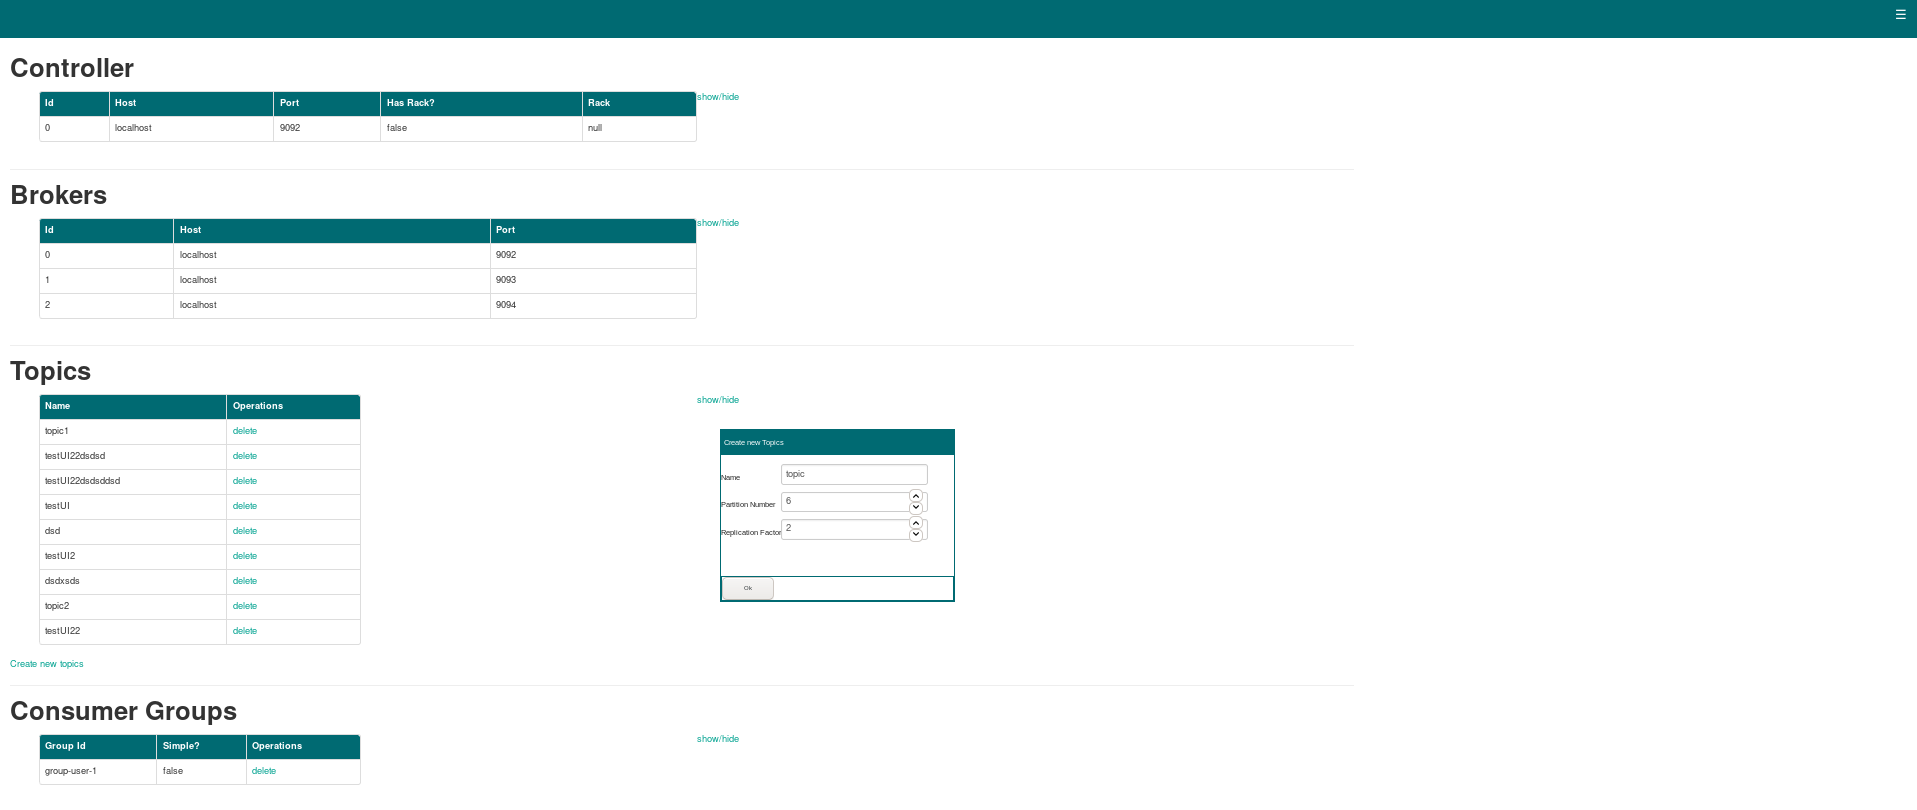
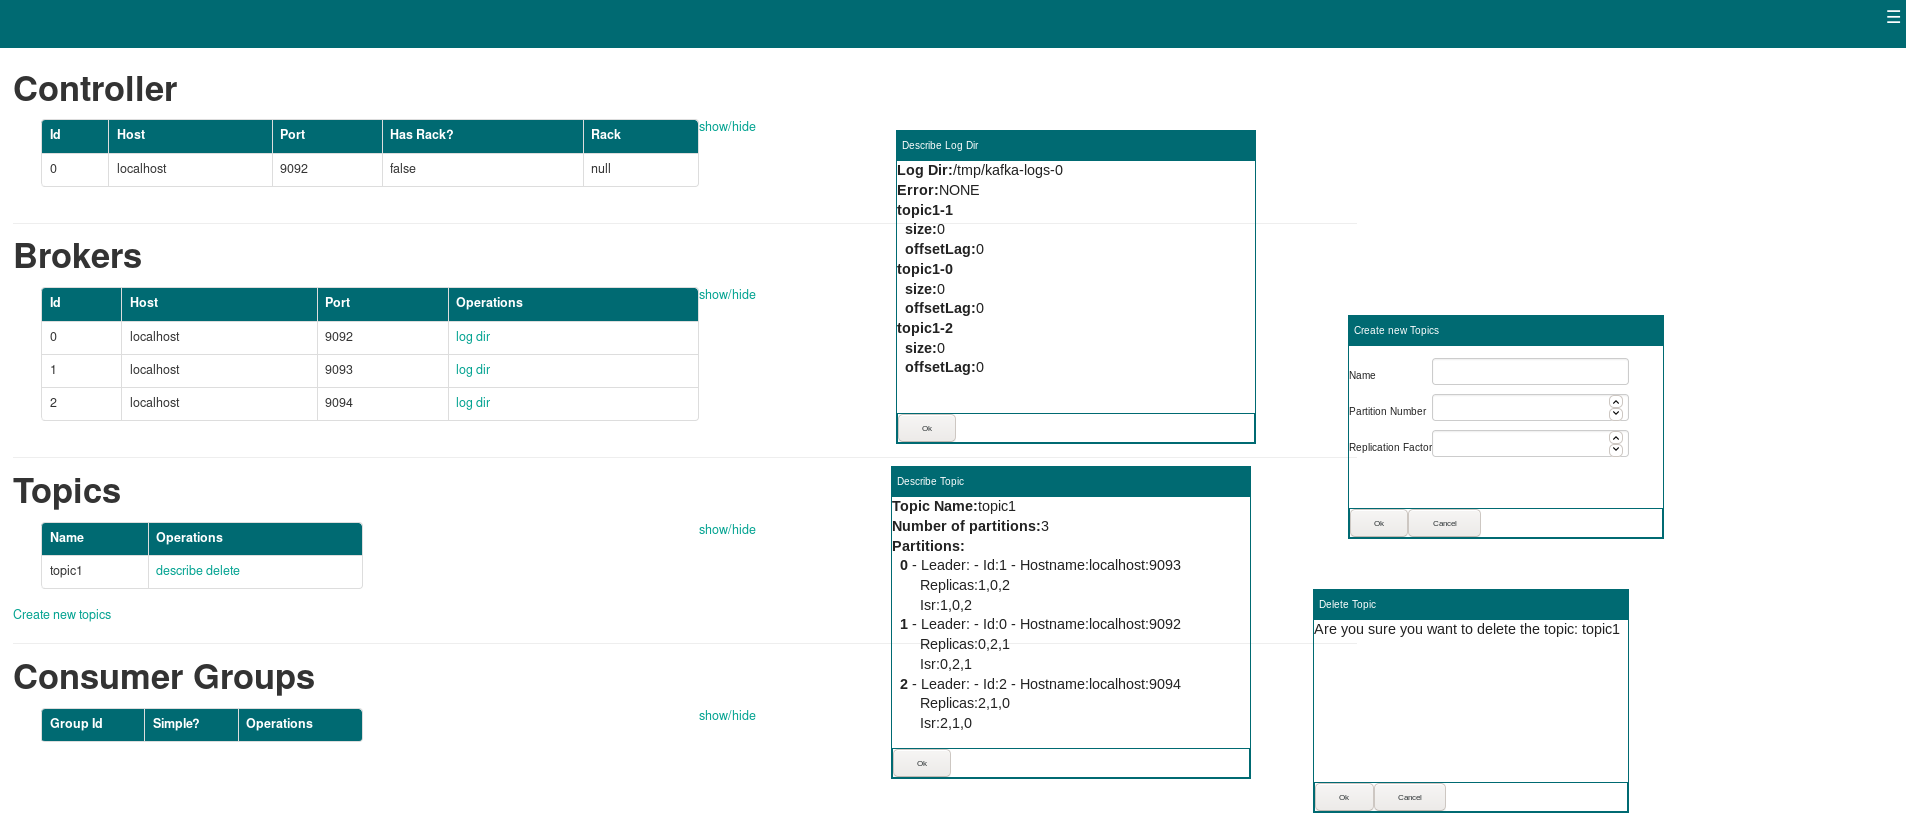
added describe log dir UI

diff --git a/kafka-console-ui/index.html b/kafka-console-ui/index.html
@@ -46,6 +46,10 @@
     <p id="describe-topic-def"><span id="describe-topic-name"></span></p>
 </div>
 
+<div id="dialog-describe-logdir" title="Describe Log Dir">
+    <p id="describe-logdir-def"><span id="describe-broker-id"></span></p>
+</div>
+
 <div id="dialog-delete-topic" title="Delete Topic">
   <p id="delete-topic-def">Are you sure you want to delete the topic: <span id="delete-topic-name"></span></p>
 </div>
@@ -118,6 +122,7 @@
     <th>Id</th>
     <th>Host</th>
     <th>Port</th>
+    <th>Operations</th>
   </thead>
   <tbody>
   </tbody>
@@ -203,23 +208,48 @@ var handleCgroupDeleted = function(data, textStatus, jqXHR) {
 var handleDescribeTopics = function(data, textStatus, jqXHR) {
   var topicName = $('#describe-topic-name').html();
   $('#describe-topic-name').html("");
-  $('#describe-topic-name').html("Topic Name:" + data[topicName].name + "<br>Number of partitions:" + data[topicName].partitions.length);
-  $('#describe-topic-name').append("<br>Partitions:<br>");
+  $('#describe-topic-name').html("<b>Topic Name:</b>" + data[topicName].name + "<br><b>Number of partitions:</b>" + data[topicName].partitions.length);
+  $('#describe-topic-name').append("<br><b>Partitions:</b><br>");
   var lastText = $('#describe-topic-name').html();
   for (var i = 0; i < data[topicName].partitions.length; i++) {
-    $('#describe-topic-name').append("&nbsp;&nbsp;" + i + " - Leader: - Id:" + data[topicName].partitions[i].leader.id + " - Hostname:" + data[topicName].partitions[i].leader.host + ":" + data[topicName].partitions[i].leader.port);
+    $('#describe-topic-name').append("&nbsp;&nbsp;<b>" + i + " </b>- Leader: - Id:" + data[topicName].partitions[i].leader.id + " - Hostname:" + data[topicName].partitions[i].leader.host + ":" + data[topicName].partitions[i].leader.port);
     $('#describe-topic-name').append("<br>");
     $('#describe-topic-name').append("&nbsp;&nbsp;&nbsp;&nbsp;&nbsp;&nbsp;&nbsp;Replicas:");
-    for (var j = 0; j < data[topicName].partitions[i].isr.length; j++) {
-      $('#describe-topic-name').append(data[topicName].partitions[i].replicas[j].id + ",");
+    for (var j = 0; j < data[topicName].partitions[i].replicas.length; j++) {
+      $('#describe-topic-name').append(data[topicName].partitions[i].replicas[j].id);
+      if(j < (data[topicName].partitions[i].replicas.length-1) ) {
+        $('#describe-topic-name').append(",");
+      }
     }
     $('#describe-topic-name').append("<br>");
     $('#describe-topic-name').append("&nbsp;&nbsp;&nbsp;&nbsp;&nbsp;&nbsp;&nbsp;Isr:");
-    for (var j = 0; j < data[topicName].partitions[i].replicas.length; j++) {
-      $('#describe-topic-name').append(data[topicName].partitions[i].isr[j].id + ",");
+    for (var j = 0; j < data[topicName].partitions[i].isr.length; j++) {
+      $('#describe-topic-name').append(data[topicName].partitions[i].isr[j].id);
+      if(j < (data[topicName].partitions[i].isr.length-1) ) {
+        $('#describe-topic-name').append(",");
+      }
     }
     $('#describe-topic-name').append("<br>");
   }
+}
+
+var handleDescribeLogDir = function(data, textStatus, jqXHR) {
+  var brokerId = $('#describe-broker-id').html();
+    var logArray = data[brokerId];
+    for(o in logArray) {
+      $('#describe-broker-id').html("<b>Log Dir:</b>" + o);
+      $('#describe-broker-id').append("<br>");
+      $('#describe-broker-id').append("<b>Error:</b>" + logArray[o].error);
+      var replicaInfos = logArray[o].replicaInfos;
+      for(t in replicaInfos) {
+        $('#describe-broker-id').append("<br>");
+        $('#describe-broker-id').append("<b>" + t + "<b>");
+        $('#describe-broker-id').append("<br>");
+        $('#describe-broker-id').append("&nbsp;&nbsp;<b>size:</b>" + replicaInfos[t].size);
+        $('#describe-broker-id').append("<br>");
+        $('#describe-broker-id').append("&nbsp;&nbsp;<b>offsetLag:</b>" + replicaInfos[t].offsetLag);
+      }
+    }
 }
 
 var handle404 = function(jqXHR, textStatus, errorThrown) {
@@ -364,8 +394,8 @@ $('#dialog-describe-topic').dialog({
       open: function(event, ui) {
         $(".ui-dialog-titlebar-close", ui.dialog || ui).hide();
       },
-      width: 350,
-      height: 250,
+      width: 400,
+      height: 350,
       open: function() {
             jQuery('.ui-widget-overlay').on('click', function() {
                 jQuery('#dialog-describe-topic').dialog('close');
@@ -385,6 +415,36 @@ $('#dialog-describe-topic').dialog({
         duration: 1000
       }
 });
+
+$('#dialog-describe-logdir').dialog({
+      modal: true,
+      autoOpen: false,
+      closeOnEscape: false,
+      open: function(event, ui) {
+        $(".ui-dialog-titlebar-close", ui.dialog || ui).hide();
+      },
+      width: 400,
+      height: 350,
+      open: function() {
+            jQuery('.ui-widget-overlay').on('click', function() {
+                jQuery('#dialog-describe-logdir').dialog('close');
+            })
+      },
+      buttons: {
+        Ok: function() {
+          $( this ).dialog( "close" );
+        }
+      },
+      show: {
+        effect: "bounce",
+        duration: 1000
+      },
+      hide: {
+        effect: "fade",
+        duration: 1000
+      }
+});
+
 
 $('#dialog-delete-cgroup').dialog({
       modal: true,
@@ -477,6 +537,24 @@ function describeTopic(topicName) {
   return false;
 }
 
+function describeLogDir(brokerId) {
+  $('#dialog-describe-logdir').dialog("open");
+  $('#describe-broker-id').html(brokerId);
+  $.ajax({
+    type: "POST",
+    url: 'http://localhost:8080/api/logs/describe',
+    data: '{"brokers": "' + brokerId + '"}',
+    dataType: "json",
+    statusCode: {
+      200: handleDescribeLogDir,
+      404: handle404,
+      500: handle500
+    }
+  });
+
+  return false;
+}
+
 function deleteCgroup(cgroup) {
   $('#dialog-delete-cgroup').dialog("open");
   $('#delete-cgroup-name').html(cgroup);
@@ -501,7 +579,7 @@ $.ajax({
     var row = "";
       $.each(data, function (index, value) {
         //console.log(value);
-        row += "<tr><td>" + value.id + "</td><td>" + value.host + "</td><td>" + value.port + "</td></tr>";});
+        row += "<tr><td>" + value.id + "</td><td>" + value.host + "</td><td>" + value.port + "</td><td><a href='#' onclick='describeLogDir(\"" + value.id + "\");'>log dir</a></td></tr>";});
 
       $("#brokers-table tbody").append(row);
 
